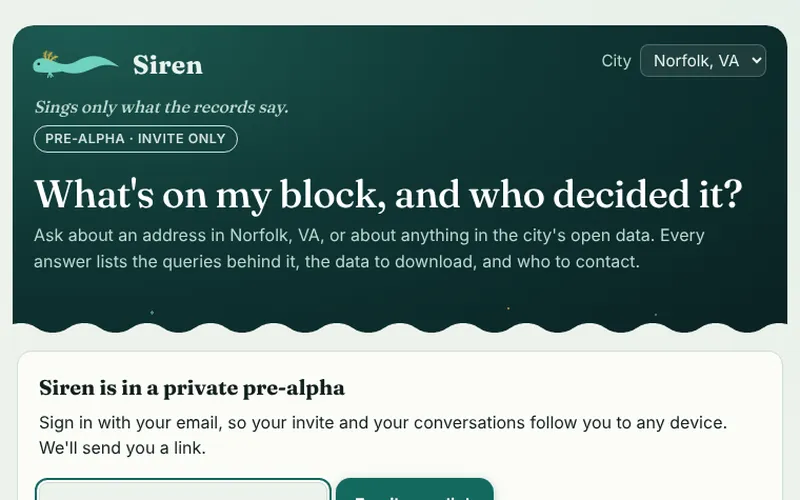
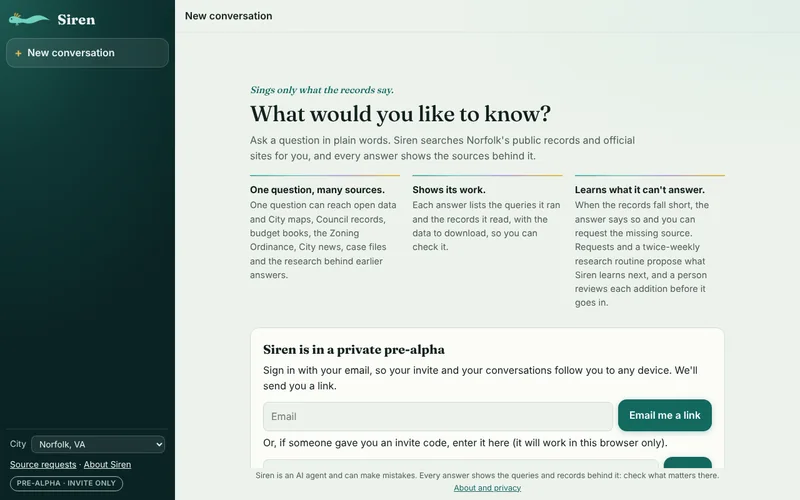
Siren card: a new screenshot of its redesigned start page
Shot from production at 1280x800, scaled to the cards' 800x500. It shows
the new layout: sidebar, "What would you like to know?", the three
columns and the pre-alpha sign-in. Alt text describes it.

Claude-Session: https://claude.ai/code/session_01Sqvwr6hkSFEKHhWDSZxL63

diff --git a/index.html b/index.html
@@ -109,7 +109,7 @@
 
           <div class="project-card headliner in-progress">
             <a class="project-shot-link" href="https://ask-siren.jason-edelman.org/" tabindex="-1">
-              <img class="project-shot" src="/img/projects/siren.webp" alt="Siren's landing page: “What’s on my block, and who decided it?” above the pre-alpha sign-in."
+              <img class="project-shot" src="/img/projects/siren.webp" alt="Siren's start page: a dark green sidebar with New conversation and the city picker set to Norfolk, VA; “What would you like to know?” above three columns (One question, many sources; Shows its work; Learns what it can't answer) and the pre-alpha sign-in."
                    width="800" height="500" loading="lazy" decoding="async">
             </a>
             <div class="project-body">
